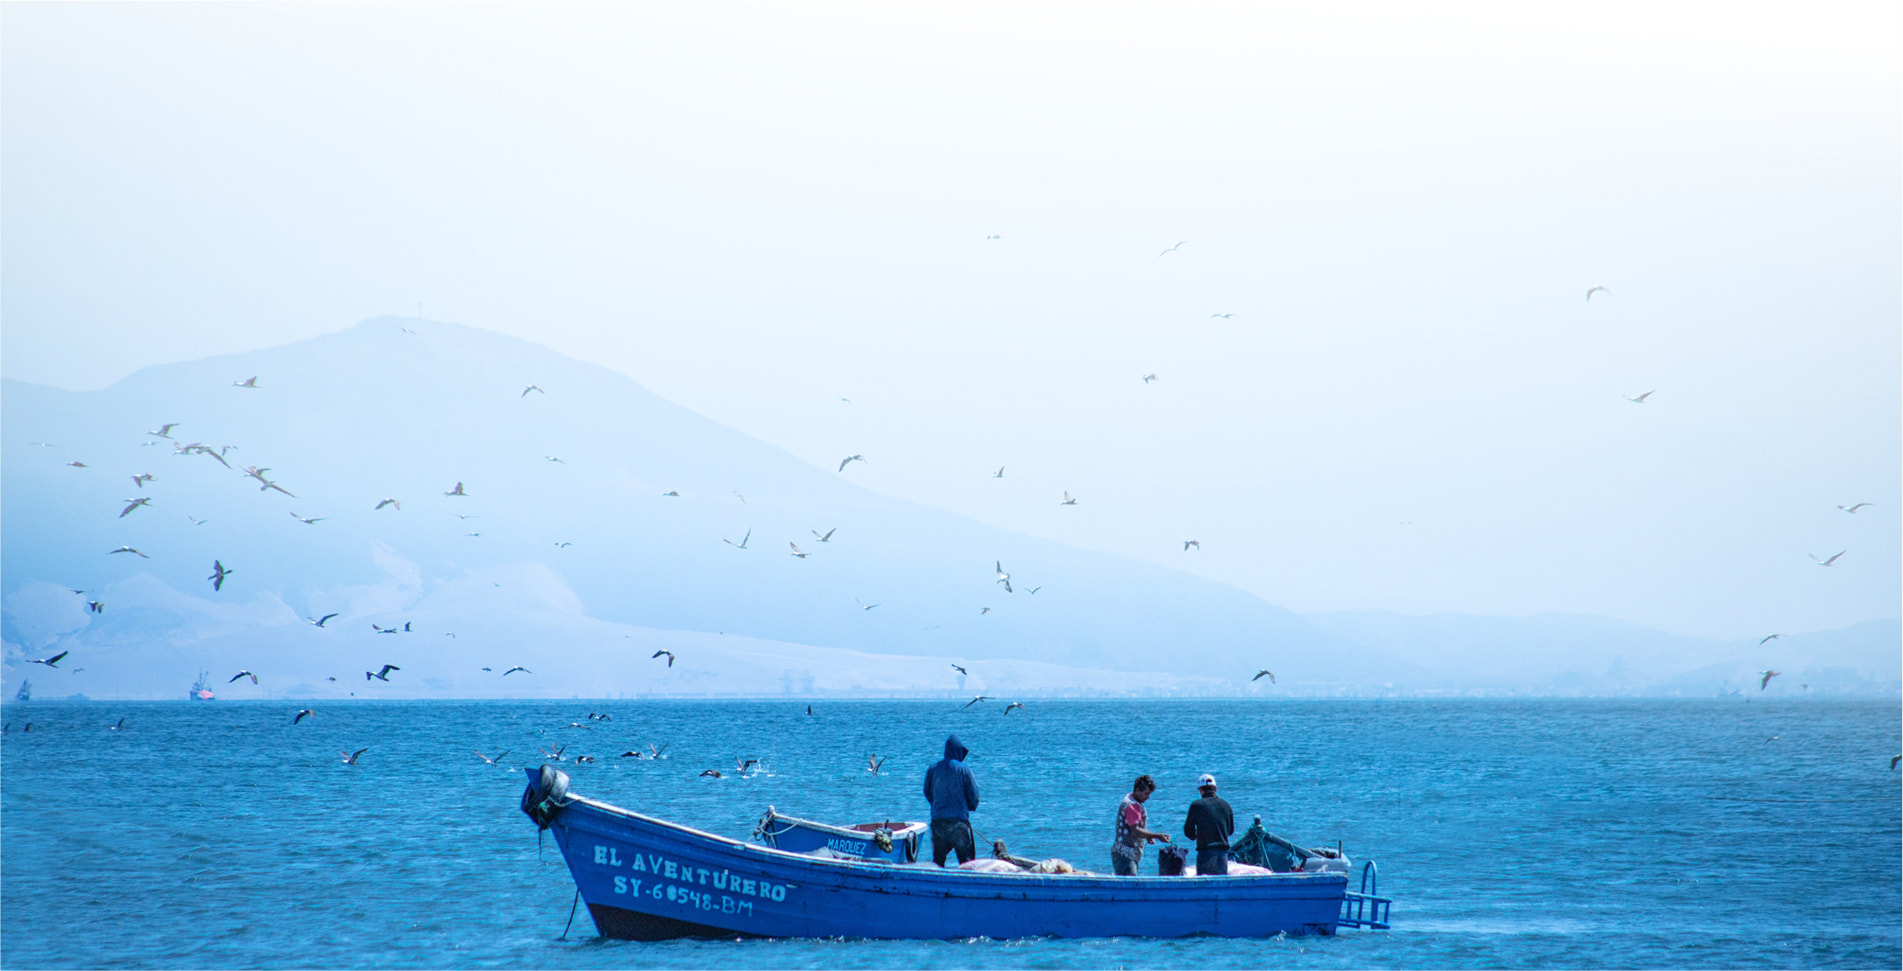
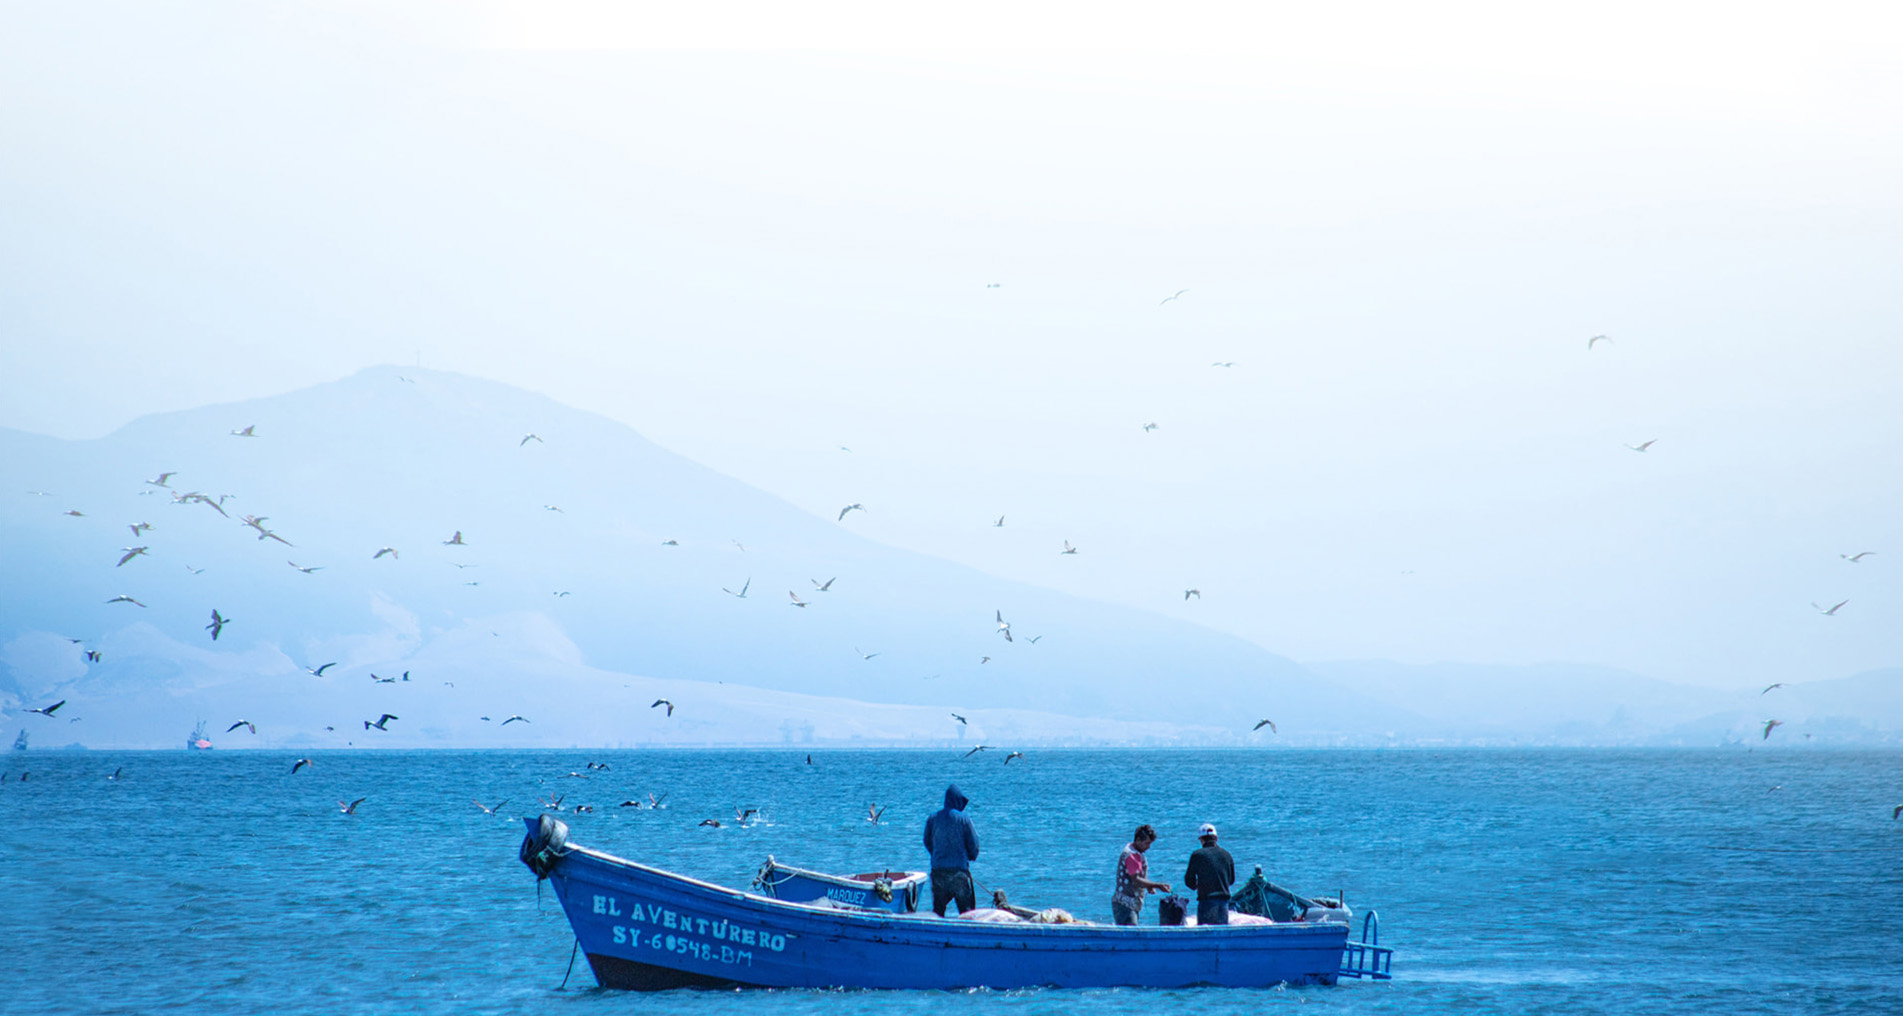
pro

diff --git a/src/sections/Aliados.js b/src/sections/Aliados.js
@@ -8,7 +8,7 @@ const { colors } = theme
 
 const Container = styled.section`
   min-height: 100vh;
-  background: url('images/pesca en el mar de chimbote.jpg') no-repeat center;
+  background: url('images/pesca en el mar de chimbote.jpg') no-repeat bottom;
   background-size: cover;
   padding: 10rem 3rem;
 `
